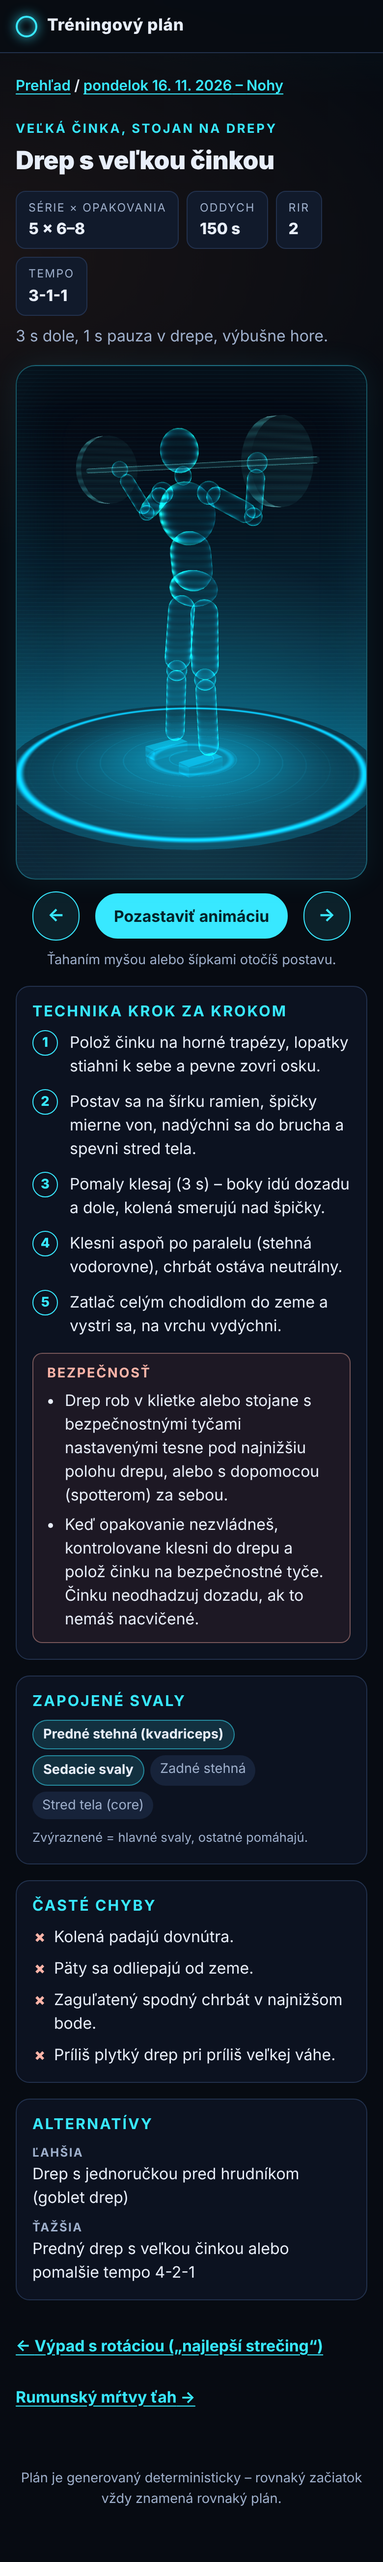
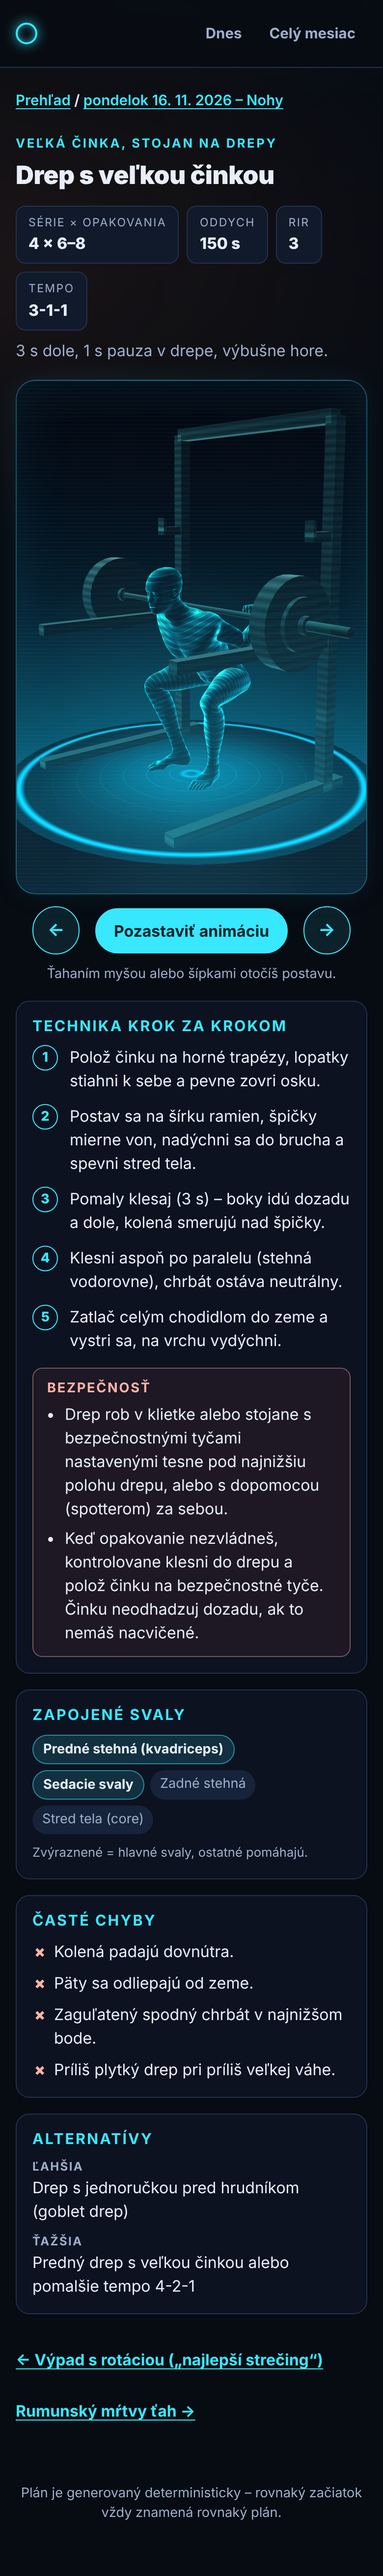
Retry failed model loads without a request loop; bench stance; screenshots
- a failed model load stays cached (React re-renders after the rejection
  must see it) until Retry or the next exercise mount clears it; verified
  in the browser: abort and SPA-HTML responses show the retry message,
  3D controls stay enabled, Retry loads the model, no pageerror
- bench/incline: feet just in front of the knees, knees less splayed
- showcase screenshots regenerated from days that contain each exercise;
  desktop/mobile exercise screenshots show the skinned hologram

Claude-Session: https://claude.ai/code/session_01LDdT8reSwRv2441UzCeWGX

diff --git a/src/hologram/modelLoader.test.ts b/src/hologram/modelLoader.test.ts
@@ -2,7 +2,7 @@
 import { readFileSync } from 'node:fs';
 import { resolve } from 'node:path';
 import { afterEach, describe, expect, it, vi } from 'vitest';
-import { ModelLoadError, ModelMismatchError } from './modelError';
+import { ModelLoadError, ModelMismatchError, retryModelLoad } from './modelError';
 import { loadHumanModel, MODEL_URL } from './modelLoader';
 
 const glb = () => {
@@ -21,7 +21,7 @@ afterEach(() => {
 });
 
 describe('loadHumanModel', () => {
-  it('rejects an HTML page served instead of the model, then retries on the next call', async () => {
+  it('rejects an HTML page served instead of the model and fetches again only on retry', async () => {
     const fetchMock = vi
       .fn()
       .mockImplementationOnce(() => respond('<!doctype html><html></html>', 200, 'text/html'))
@@ -31,7 +31,12 @@ describe('loadHumanModel', () => {
     const failed = loadHumanModel();
     await expect(failed).rejects.toBeInstanceOf(ModelLoadError);
     await expect(failed).rejects.toThrow(/not a binary glTF \(text\/html\)/);
+    // Re-renders keep seeing the same failure (no request loop)...
+    expect(loadHumanModel()).toBe(failed);
+    expect(fetchMock).toHaveBeenCalledTimes(1);
 
+    // ...until a retry.
+    retryModelLoad();
     const scene = await loadHumanModel();
     expect(scene.getObjectByName('lShin')).toBeDefined();
     expect(fetchMock).toHaveBeenCalledTimes(2);
@@ -44,7 +49,7 @@ describe('loadHumanModel', () => {
   it('wraps HTTP and network errors in ModelLoadError', async () => {
     vi.resetModules();
     const { loadHumanModel: load } = await import('./modelLoader');
-    const { ModelLoadError: LoadError } = await import('./modelError');
+    const { ModelLoadError: LoadError, retryModelLoad: retry } = await import('./modelError');
     vi.stubGlobal(
       'fetch',
       vi
@@ -53,6 +58,7 @@ describe('loadHumanModel', () => {
         .mockImplementationOnce(() => Promise.reject(new TypeError('Failed to fetch'))),
     );
     await expect(load()).rejects.toThrow(/HTTP 404/);
+    retry();
     const error = await load().catch((e: unknown) => e);
     expect(error).toBeInstanceOf(LoadError);
     expect((error as Error).cause).toBeInstanceOf(TypeError);

diff --git a/src/hologram/modelLoader.ts b/src/hologram/modelLoader.ts
@@ -1,21 +1,30 @@
 import type { Object3D } from 'three';
 import { GLTFLoader } from 'three/examples/jsm/loaders/GLTFLoader.js';
 import { HUMAN_MODEL_HASH } from './humanSkeleton';
-import { ModelLoadError } from './modelError';
+import { ModelLoadError, onModelRetry } from './modelError';
 
 /** Self-hosted CC0 human model (see docs/ASSETS.md); relative to the page. */
 export const MODEL_URL = `${import.meta.env.BASE_URL}models/human.glb?v=${HUMAN_MODEL_HASH}`;
 
 let pending: Promise<Object3D> | null = null;
+let failed = false;
+
+// A retry (button, or the next exercise opened) drops a failed load.
+onModelRetry(() => {
+  if (failed) {
+    pending = null;
+    failed = false;
+  }
+});
 
 /**
  * Loads the human model once and shares it (each controller clones it). A
- * failed load is not cached, so the next call - a retry or the next exercise
- * opened - fetches again.
+ * failed load stays cached until retryModelLoad(), so the re-render after the
+ * rejection sees the error instead of starting another request.
  */
 export function loadHumanModel(): Promise<Object3D> {
   pending ??= fetchModel(MODEL_URL).catch((error: unknown) => {
-    pending = null;
+    failed = true;
     throw error instanceof ModelLoadError
       ? error
       : new ModelLoadError('Human model could not be loaded', { cause: error });

diff --git a/src/components/Hologram.tsx b/src/components/Hologram.tsx
@@ -1,5 +1,5 @@
 import { Component, Suspense, lazy, type ReactNode } from 'react';
-import { isModelLoadError } from '../hologram/modelError';
+import { isModelLoadError, retryModelLoad } from '../hologram/modelError';
 import type { AnimationId } from '../plan';
 
 // three.js and the scene are only downloaded when an exercise is opened.
@@ -29,6 +29,12 @@ class HologramErrorBoundary extends Component<
 > {
   state: { failure: Failure } = { failure: null };
 
+  constructor(props: HologramErrorBoundary['props']) {
+    super(props);
+    // Opening another exercise tries a previously failed model download again.
+    retryModelLoad();
+  }
+
   static getDerivedStateFromError(error: unknown): { failure: Failure } {
     return { failure: isModelLoadError(error) ? 'model' : 'runtime' };
   }
@@ -40,7 +46,10 @@ class HologramErrorBoundary extends Component<
     if (!isModelLoadError(error)) this.props.onUnavailable();
   }
 
-  private retry = () => this.setState({ failure: null });
+  private retry = () => {
+    retryModelLoad();
+    this.setState({ failure: null });
+  };
 
   render() {
     const { failure } = this.state;

diff --git a/src/hologram/modelError.ts b/src/hologram/modelError.ts
@@ -24,3 +24,19 @@ export class ModelMismatchError extends ModelLoadError {
 export function isModelLoadError(error: unknown): error is ModelLoadError {
   return error instanceof ModelLoadError;
 }
+
+const retryListeners = new Set<() => void>();
+
+/** Registers a callback that drops a failed model load (used by the loader). */
+export function onModelRetry(listener: () => void): void {
+  retryListeners.add(listener);
+}
+
+/**
+ * Asks the loader to forget a failed load so the next render fetches again.
+ * A failed load stays cached until then: React re-renders after a rejected
+ * promise and must see the same rejection, not start a new request.
+ */
+export function retryModelLoad(): void {
+  retryListeners.forEach((listener) => listener());
+}

diff --git a/src/hologram/clips.ts b/src/hologram/clips.ts
@@ -378,8 +378,8 @@ function press(kind: 'bench' | 'bench-dumbbells' | 'incline'): Clip {
       const k = down(t);
       // Feet flat, about hip-and-a-half wide, just in front of the knees.
       const legs: Record<Side, LegTarget> = both((s) => ({
-        foot: flatFoot(s, incline ? 0.21 : 0.23, feetZ, 14),
-        knee: [sx(s, 0.25), 0.8, 0.5],
+        foot: flatFoot(s, incline ? 0.2 : 0.21, feetZ, 12),
+        knee: [sx(s, 0.12), 0.8, 0.5],
       }));
       const targets: BodyTargets = {
         hips: { pos: [0, 0.6, hipsZ], pitch: -90 + angle },
